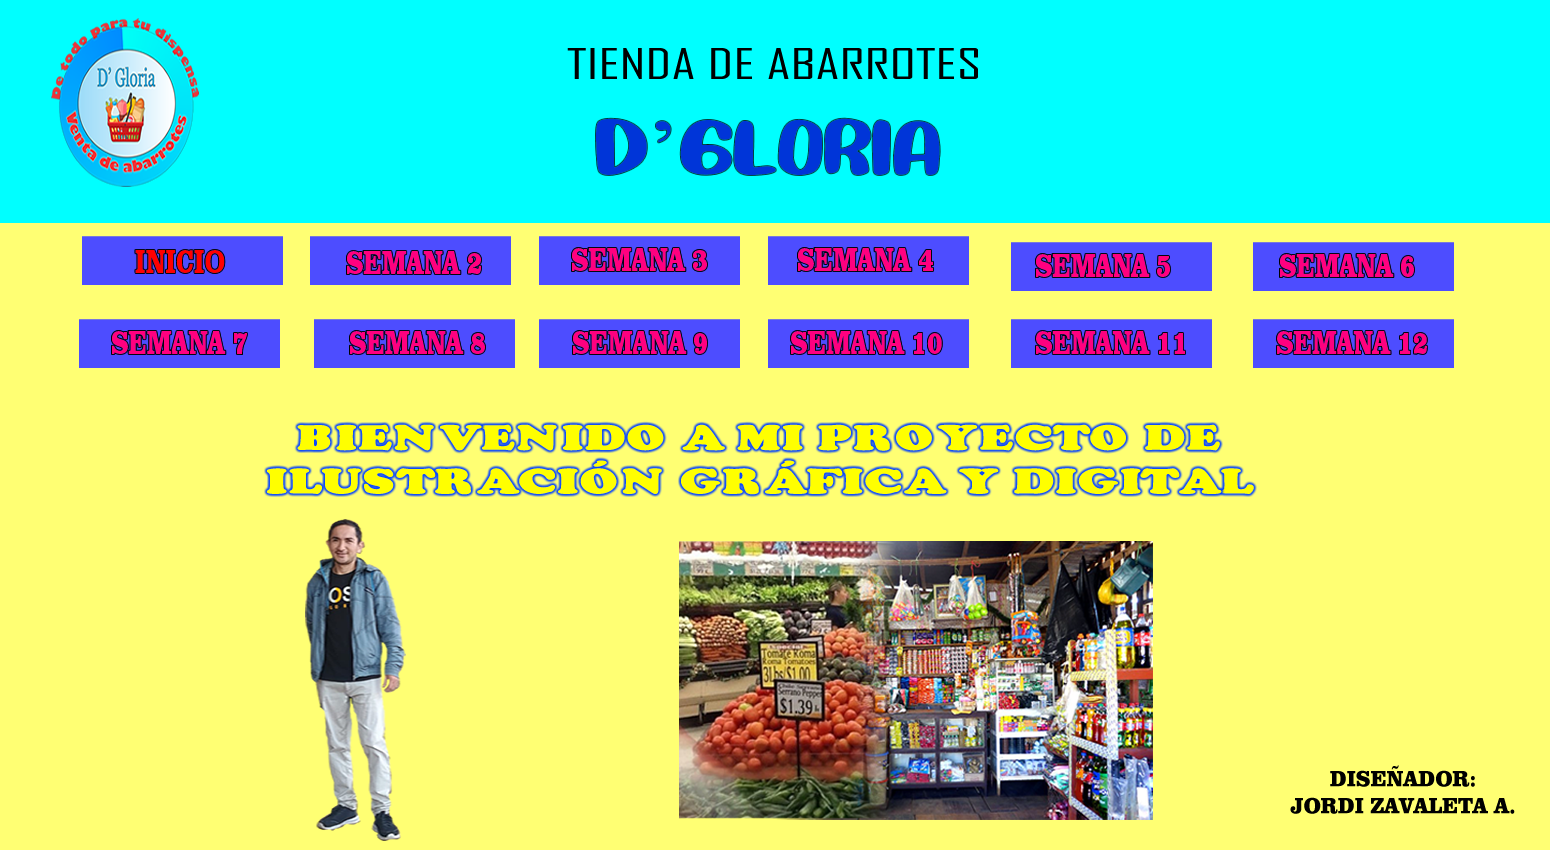
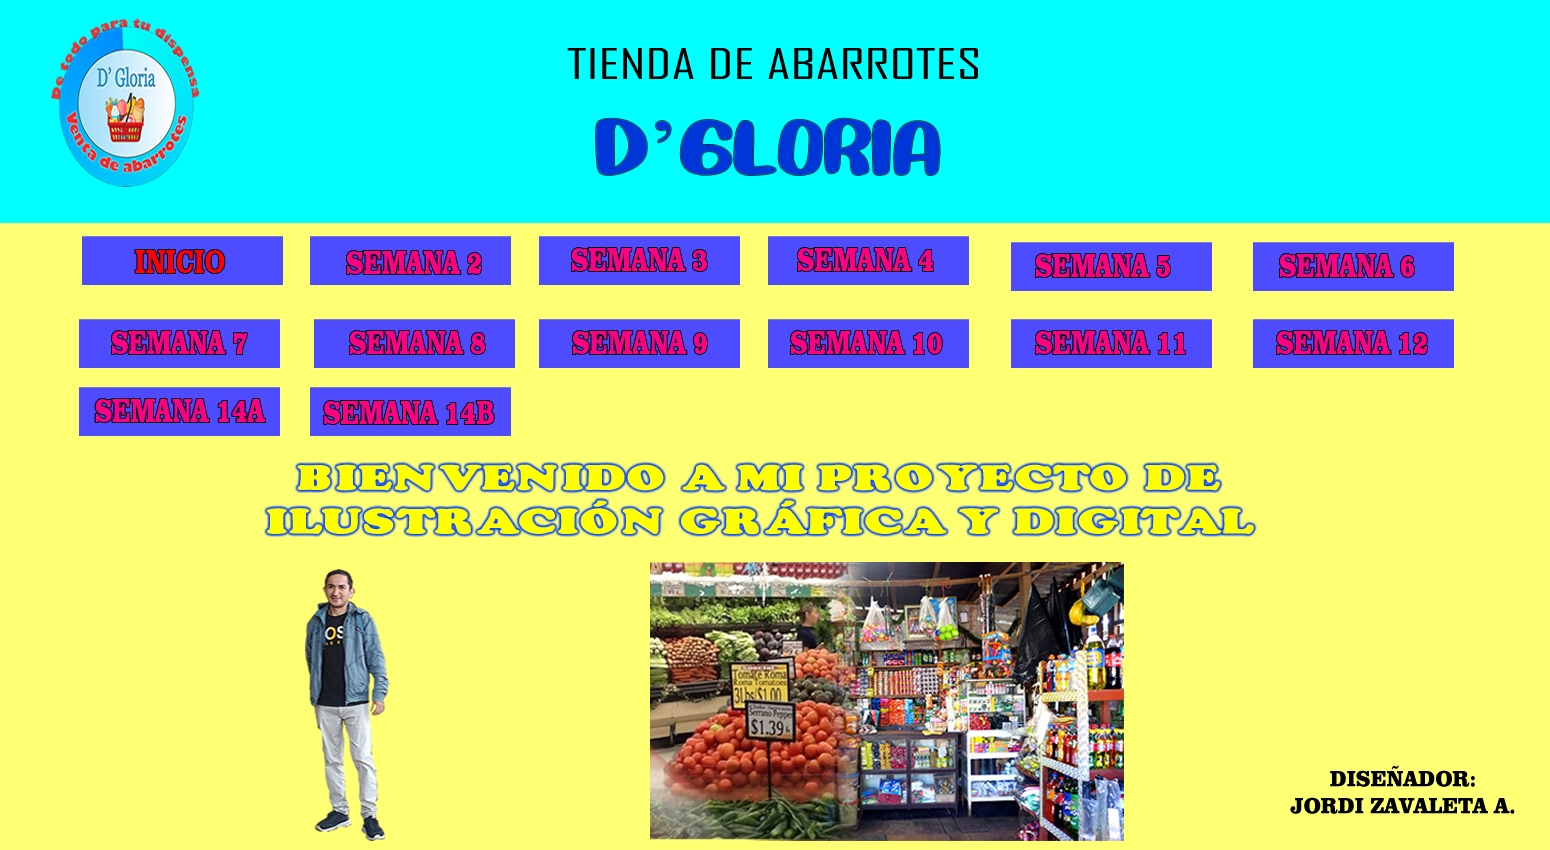
Add files via upload

Changed region(s): [[0.031, 0.4282, 0.8052, 1.0]]

diff --git a/s14a.html b/s14a.html
@@ -3,21 +3,21 @@
 <!-- saved from url=(0014)about:internet -->
 <html xmlns="http://www.w3.org/1999/xhtml">
 <head>
-<title>s09</title>
+<title>s14a</title>
 <meta http-equiv="Content-Type" content="text/html; charset=utf-8" />
-<!--Fireworks CS6 Dreamweaver CS6 target.  Created Tue Jul 22 09:04:20 GMT-0500 2025-->
+<!--Fireworks CS6 Dreamweaver CS6 target.  Created Tue Jul 22 08:44:06 GMT-0500 2025-->
 </head>
 <body bgcolor="#ffffff">
-<img name="s09" src="s09.png" width="1550" height="850" id="s09" usemap="#m_s09" alt="" /><map name="m_s09" id="m_s09">
-<area shape="rect" coords="310,387,511,436" href="s14b.html" alt="" />
-<area shape="rect" coords="79,387,280,436" href="s14a.html" alt="" />
-<area shape="rect" coords="51,18,199,187" href="index.html" alt="" />
-<area shape="rect" coords="1252,319,1453,368" href="s12.html" alt="" />
+<img name="s14a" src="s14a.png" width="1550" height="850" id="s14a" usemap="#m_s14a" alt="" /><map name="m_s14a" id="m_s14a">
+<area shape="rect" coords="39,18,206,187" href="index.html" alt="" />
+<area shape="rect" coords="314,395,515,444" href="s14b.html" alt="" />
+<area shape="rect" coords="82,391,283,440" href="s14a.html" alt="" />
+<area shape="rect" coords="1253,319,1454,368" href="s12.html" alt="" />
 <area shape="rect" coords="1011,319,1212,368" href="s11.html" alt="" />
-<area shape="rect" coords="768,320,969,369" href="s10.html" alt="" />
-<area shape="rect" coords="539,319,740,368" href="s09.html" alt="" />
+<area shape="rect" coords="768,319,969,368" href="s10.html" alt="" />
+<area shape="rect" coords="539,320,740,369" href="s09.html" alt="" />
 <area shape="rect" coords="314,320,515,369" href="s08.html" alt="" />
-<area shape="rect" coords="79,319,280,368" href="s07.html" alt="" />
+<area shape="rect" coords="79,320,280,369" href="s07.html" alt="" />
 <area shape="rect" coords="1247,237,1448,286" href="s06.html" alt="" />
 <area shape="rect" coords="1011,235,1212,284" href="s05.html" alt="" />
 <area shape="rect" coords="768,236,969,285" href="s04.html" alt="" />

diff --git a/s14b.html b/s14b.html
@@ -3,21 +3,21 @@
 <!-- saved from url=(0014)about:internet -->
 <html xmlns="http://www.w3.org/1999/xhtml">
 <head>
-<title>s09</title>
+<title>s14b</title>
 <meta http-equiv="Content-Type" content="text/html; charset=utf-8" />
-<!--Fireworks CS6 Dreamweaver CS6 target.  Created Tue Jul 22 09:04:20 GMT-0500 2025-->
+<!--Fireworks CS6 Dreamweaver CS6 target.  Created Tue Jul 22 08:46:33 GMT-0500 2025-->
 </head>
 <body bgcolor="#ffffff">
-<img name="s09" src="s09.png" width="1550" height="850" id="s09" usemap="#m_s09" alt="" /><map name="m_s09" id="m_s09">
-<area shape="rect" coords="310,387,511,436" href="s14b.html" alt="" />
-<area shape="rect" coords="79,387,280,436" href="s14a.html" alt="" />
-<area shape="rect" coords="51,18,199,187" href="index.html" alt="" />
-<area shape="rect" coords="1252,319,1453,368" href="s12.html" alt="" />
+<img name="s14b" src="s14b.png" width="1550" height="850" id="s14b" usemap="#m_s14b" alt="" /><map name="m_s14b" id="m_s14b">
+<area shape="rect" coords="34,18,217,187" href="index.html" alt="" />
+<area shape="rect" coords="314,394,515,443" href="s14b.html" alt="" />
+<area shape="rect" coords="82,391,283,440" href="s14a.html" alt="" />
+<area shape="rect" coords="1253,319,1454,368" href="s12.html" alt="" />
 <area shape="rect" coords="1011,319,1212,368" href="s11.html" alt="" />
-<area shape="rect" coords="768,320,969,369" href="s10.html" alt="" />
-<area shape="rect" coords="539,319,740,368" href="s09.html" alt="" />
+<area shape="rect" coords="768,319,969,368" href="s10.html" alt="" />
+<area shape="rect" coords="539,320,740,369" href="s09.html" alt="" />
 <area shape="rect" coords="314,320,515,369" href="s08.html" alt="" />
-<area shape="rect" coords="79,319,280,368" href="s07.html" alt="" />
+<area shape="rect" coords="79,320,280,369" href="s07.html" alt="" />
 <area shape="rect" coords="1247,237,1448,286" href="s06.html" alt="" />
 <area shape="rect" coords="1011,235,1212,284" href="s05.html" alt="" />
 <area shape="rect" coords="768,236,969,285" href="s04.html" alt="" />

diff --git a/s11.html b/s11.html
@@ -5,18 +5,19 @@
 <head>
 <title>s11</title>
 <meta http-equiv="Content-Type" content="text/html; charset=utf-8" />
-<!--Fireworks CS6 Dreamweaver CS6 target.  Created Sun Jul 06 00:19:11 GMT-0500 2025-->
+<!--Fireworks CS6 Dreamweaver CS6 target.  Created Tue Jul 22 09:13:45 GMT-0500 2025-->
 </head>
-<center>
 <body bgcolor="#ffffff">
 <img name="s11" src="s11.png" width="1550" height="850" id="s11" usemap="#m_s11" alt="" /><map name="m_s11" id="m_s11">
-<area shape="circle" coords="125,103, 80" href="index.html" alt="" />
+<area shape="rect" coords="310,392,511,441" href="s14b.html" alt="" />
+<area shape="rect" coords="79,392,280,441" href="s14a.html" alt="" />
+<area shape="rect" coords="43,18,199,187" href="index.html" alt="" />
 <area shape="rect" coords="1253,320,1454,369" href="s12.html" alt="" />
-<area shape="rect" coords="1011,320,1212,369" href="s11.html" alt="" />
+<area shape="rect" coords="1011,319,1212,368" href="s11.html" alt="" />
 <area shape="rect" coords="768,319,969,368" href="s10.html" alt="" />
 <area shape="rect" coords="539,320,740,369" href="s09.html" alt="" />
 <area shape="rect" coords="314,320,515,369" href="s08.html" alt="" />
-<area shape="rect" coords="79,320,280,369" href="s07.html" alt="" />
+<area shape="rect" coords="79,319,280,368" href="s07.html" alt="" />
 <area shape="rect" coords="1247,237,1448,286" href="s06.html" alt="" />
 <area shape="rect" coords="1011,235,1212,284" href="s05.html" alt="" />
 <area shape="rect" coords="768,236,969,285" href="s04.html" alt="" />
@@ -25,5 +26,4 @@
 <area shape="rect" coords="82,236,283,285" href="index.html" alt="" />
 </map>
 </body>
-</center>
 </html>

diff --git a/s04.html b/s04.html
@@ -5,18 +5,19 @@
 <head>
 <title>s04</title>
 <meta http-equiv="Content-Type" content="text/html; charset=utf-8" />
-<!--Fireworks CS6 Dreamweaver CS6 target.  Created Sat Jul 05 20:37:24 GMT-0500 2025-->
+<!--Fireworks CS6 Dreamweaver CS6 target.  Created Tue Jul 22 08:54:43 GMT-0500 2025-->
 </head>
-<center>
 <body bgcolor="#ffffff">
 <img name="s04" src="s04.png" width="1550" height="850" id="s04" usemap="#m_s04" alt="" /><map name="m_s04" id="m_s04">
-<area shape="circle" coords="128,103, 80" href="index.html" alt="" />
+<area shape="rect" coords="310,379,511,428" href="s14b.html" alt="" />
+<area shape="rect" coords="79,380,280,429" href="s14a.html" alt="" />
+<area shape="rect" coords="49,18,199,187" href="index.html" alt="" />
 <area shape="rect" coords="1252,319,1453,368" href="s12.html" alt="" />
 <area shape="rect" coords="1011,320,1212,369" href="s11.html" alt="" />
 <area shape="rect" coords="768,320,969,369" href="s10.html" alt="" />
 <area shape="rect" coords="539,320,740,369" href="s09.html" alt="" />
 <area shape="rect" coords="314,319,515,368" href="s08.html" alt="" />
-<area shape="rect" coords="79,319,280,368" href="s07.html" alt="" />
+<area shape="rect" coords="80,319,281,368" href="s07.html" alt="" />
 <area shape="rect" coords="1253,243,1454,292" href="s06.html" alt="" />
 <area shape="rect" coords="1011,243,1212,292" href="s05.html" alt="" />
 <area shape="rect" coords="768,236,969,285" href="s04.html" alt="" />
@@ -25,5 +26,4 @@
 <area shape="rect" coords="82,236,283,285" href="index.html" alt="" />
 </map>
 </body>
-</center>
 </html>

diff --git a/s05.html b/s05.html
@@ -5,18 +5,19 @@
 <head>
 <title>s05</title>
 <meta http-equiv="Content-Type" content="text/html; charset=utf-8" />
-<!--Fireworks CS6 Dreamweaver CS6 target.  Created Sat Jul 05 20:38:00 GMT-0500 2025-->
+<!--Fireworks CS6 Dreamweaver CS6 target.  Created Tue Jul 22 08:56:49 GMT-0500 2025-->
 </head>
-<center>
 <body bgcolor="#ffffff">
 <img name="s05" src="s05.png" width="1550" height="850" id="s05" usemap="#m_s05" alt="" /><map name="m_s05" id="m_s05">
-<area shape="circle" coords="125,103, 80" href="index.html" alt="" />
+<area shape="rect" coords="314,383,515,432" href="s14b.html" alt="" />
+<area shape="rect" coords="79,382,280,431" href="s14a.html" alt="" />
+<area shape="rect" coords="43,18,199,187" href="index.html" alt="" />
 <area shape="rect" coords="1252,319,1453,368" href="s12.html" alt="" />
 <area shape="rect" coords="1011,319,1212,368" href="s11.html" alt="" />
 <area shape="rect" coords="768,320,969,369" href="s10.html" alt="" />
 <area shape="rect" coords="539,320,740,369" href="s09.html" alt="" />
 <area shape="rect" coords="314,319,515,368" href="s08.html" alt="" />
-<area shape="rect" coords="79,319,280,368" href="s07.html" alt="" />
+<area shape="rect" coords="79,320,280,369" href="s07.html" alt="" />
 <area shape="rect" coords="1247,236,1448,285" href="s06.html" alt="" />
 <area shape="rect" coords="1011,235,1212,284" href="s05.html" alt="" />
 <area shape="rect" coords="768,236,969,285" href="s04.html" alt="" />
@@ -25,5 +26,4 @@
 <area shape="rect" coords="82,236,283,285" href="index.html" alt="" />
 </map>
 </body>
-</center>
 </html>

diff --git a/s06.html b/s06.html
@@ -5,18 +5,19 @@
 <head>
 <title>s06</title>
 <meta http-equiv="Content-Type" content="text/html; charset=utf-8" />
-<!--Fireworks CS6 Dreamweaver CS6 target.  Created Sat Jul 05 20:38:33 GMT-0500 2025-->
+<!--Fireworks CS6 Dreamweaver CS6 target.  Created Tue Jul 22 08:59:03 GMT-0500 2025-->
 </head>
-<center>
 <body bgcolor="#ffffff">
 <img name="s06" src="s06.png" width="1550" height="850" id="s06" usemap="#m_s06" alt="" /><map name="m_s06" id="m_s06">
-<area shape="circle" coords="125,103, 80" href="index.html" alt="" />
+<area shape="rect" coords="310,373,511,422" href="s14b.html" alt="" />
+<area shape="rect" coords="79,373,280,422" href="s14a.html" alt="" />
+<area shape="rect" coords="51,18,199,187" href="index.html" alt="" />
 <area shape="rect" coords="1252,319,1453,368" href="s12.html" alt="" />
 <area shape="rect" coords="1011,319,1212,368" href="s11.html" alt="" />
 <area shape="rect" coords="768,320,969,369" href="s10.html" alt="" />
 <area shape="rect" coords="539,320,740,369" href="s09.html" alt="" />
 <area shape="rect" coords="314,319,515,368" href="s08.html" alt="" />
-<area shape="rect" coords="79,320,280,369" href="s07.html" alt="" />
+<area shape="rect" coords="79,319,280,368" href="s07.html" alt="" />
 <area shape="rect" coords="1247,237,1448,286" href="s06.html" alt="" />
 <area shape="rect" coords="1012,235,1213,284" href="s05.html" alt="" />
 <area shape="rect" coords="768,236,969,285" href="s04.html" alt="" />
@@ -25,5 +26,4 @@
 <area shape="rect" coords="82,236,283,285" href="index.html" alt="" />
 </map>
 </body>
-</center>
 </html>

diff --git a/s08.html b/s08.html
@@ -5,18 +5,19 @@
 <head>
 <title>s08</title>
 <meta http-equiv="Content-Type" content="text/html; charset=utf-8" />
-<!--Fireworks CS6 Dreamweaver CS6 target.  Created Sat Jul 05 20:39:45 GMT-0500 2025-->
+<!--Fireworks CS6 Dreamweaver CS6 target.  Created Tue Jul 22 09:02:38 GMT-0500 2025-->
 </head>
-<center>
 <body bgcolor="#ffffff">
 <img name="s08" src="s08.png" width="1550" height="850" id="s08" usemap="#m_s08" alt="" /><map name="m_s08" id="m_s08">
-<area shape="circle" coords="125,103, 80" href="index.html" alt="" />
+<area shape="rect" coords="314,385,515,434" href="s14b.html" alt="" />
+<area shape="rect" coords="79,385,280,434" href="s14a.html" alt="" />
+<area shape="rect" coords="49,18,199,187" href="index.html" alt="" />
 <area shape="rect" coords="1252,319,1453,368" href="s12.html" alt="" />
 <area shape="rect" coords="1011,319,1212,368" href="s11.html" alt="" />
 <area shape="rect" coords="768,320,969,369" href="s10.html" alt="" />
 <area shape="rect" coords="539,320,740,369" href="s09.html" alt="" />
 <area shape="rect" coords="314,320,515,369" href="s08.html" alt="" />
-<area shape="rect" coords="79,320,280,369" href="s07.html" alt="" />
+<area shape="rect" coords="79,319,280,368" href="s07.html" alt="" />
 <area shape="rect" coords="1247,237,1448,286" href="s06.html" alt="" />
 <area shape="rect" coords="1011,235,1212,284" href="s05.html" alt="" />
 <area shape="rect" coords="768,236,969,285" href="s04.html" alt="" />
@@ -25,5 +26,4 @@
 <area shape="rect" coords="82,236,283,285" href="index.html" alt="" />
 </map>
 </body>
-</center>
 </html>

diff --git a/s12.html b/s12.html
@@ -5,18 +5,19 @@
 <head>
 <title>s12</title>
 <meta http-equiv="Content-Type" content="text/html; charset=utf-8" />
-<!--Fireworks CS6 Dreamweaver CS6 target.  Created Sat Jul 05 20:42:13 GMT-0500 2025-->
+<!--Fireworks CS6 Dreamweaver CS6 target.  Created Tue Jul 22 09:16:01 GMT-0500 2025-->
 </head>
-<center>
 <body bgcolor="#ffffff">
 <img name="s12" src="s12.png" width="1550" height="850" id="s12" usemap="#m_s12" alt="" /><map name="m_s12" id="m_s12">
-<area shape="circle" coords="125,103, 80" href="index.html" alt="" />
+<area shape="rect" coords="310,397,511,446" href="s14b.html" alt="" />
+<area shape="rect" coords="79,397,280,446" href="s14a.html" alt="" />
+<area shape="rect" coords="40,18,199,187" href="index.html" alt="" />
 <area shape="rect" coords="1253,320,1454,369" href="s12.html" alt="" />
 <area shape="rect" coords="1011,320,1212,369" href="s11.html" alt="" />
 <area shape="rect" coords="768,319,969,368" href="s10.html" alt="" />
 <area shape="rect" coords="539,320,740,369" href="s09.html" alt="" />
 <area shape="rect" coords="314,320,515,369" href="s08.html" alt="" />
-<area shape="rect" coords="79,320,280,369" href="s07.html" alt="" />
+<area shape="rect" coords="79,319,280,368" href="s07.html" alt="" />
 <area shape="rect" coords="1247,237,1448,286" href="s06.html" alt="" />
 <area shape="rect" coords="1011,235,1212,284" href="s05.html" alt="" />
 <area shape="rect" coords="768,236,969,285" href="s04.html" alt="" />
@@ -25,5 +26,4 @@
 <area shape="rect" coords="82,236,283,285" href="index.html" alt="" />
 </map>
 </body>
-</center>
 </html>

diff --git a/s10.html b/s10.html
@@ -5,18 +5,19 @@
 <head>
 <title>s10</title>
 <meta http-equiv="Content-Type" content="text/html; charset=utf-8" />
-<!--Fireworks CS6 Dreamweaver CS6 target.  Created Sat Jul 05 20:40:57 GMT-0500 2025-->
+<!--Fireworks CS6 Dreamweaver CS6 target.  Created Tue Jul 22 09:05:47 GMT-0500 2025-->
 </head>
-<center>
 <body bgcolor="#ffffff">
 <img name="s10" src="s10.png" width="1550" height="850" id="s10" usemap="#m_s10" alt="" /><map name="m_s10" id="m_s10">
-<area shape="circle" coords="125,103, 80" href="index.html" alt="" />
+<area shape="rect" coords="314,406,515,455" href="s07.html" alt="" />
+<area shape="rect" coords="73,400,274,449" href="s07.html" alt="" />
+<area shape="rect" coords="42,18,199,187" href="index.html" alt="" />
 <area shape="rect" coords="1252,319,1453,368" href="s12.html" alt="" />
 <area shape="rect" coords="1011,319,1212,368" href="s11.html" alt="" />
 <area shape="rect" coords="768,320,969,369" href="s10.html" alt="" />
 <area shape="rect" coords="539,320,740,369" href="s09.html" alt="" />
 <area shape="rect" coords="314,320,515,369" href="s08.html" alt="" />
-<area shape="rect" coords="79,320,280,369" href="s07.html" alt="" />
+<area shape="rect" coords="79,319,280,368" href="s07.html" alt="" />
 <area shape="rect" coords="1247,237,1448,286" href="s06.html" alt="" />
 <area shape="rect" coords="1011,235,1212,284" href="s05.html" alt="" />
 <area shape="rect" coords="768,236,969,285" href="s04.html" alt="" />
@@ -25,5 +26,4 @@
 <area shape="rect" coords="82,236,283,285" href="index.html" alt="" />
 </map>
 </body>
-</center>
 </html>

diff --git a/s07.html b/s07.html
@@ -5,17 +5,18 @@
 <head>
 <title>s07</title>
 <meta http-equiv="Content-Type" content="text/html; charset=utf-8" />
-<!--Fireworks CS6 Dreamweaver CS6 target.  Created Sat Jul 05 20:39:00 GMT-0500 2025-->
+<!--Fireworks CS6 Dreamweaver CS6 target.  Created Tue Jul 22 09:00:45 GMT-0500 2025-->
 </head>
-<center>
 <body bgcolor="#ffffff">
 <img name="s07" src="s07.png" width="1550" height="850" id="s07" usemap="#m_s07" alt="" /><map name="m_s07" id="m_s07">
-<area shape="circle" coords="125,103, 80" href="index.html" alt="" />
+<area shape="rect" coords="314,383,515,432" href="s14b.html" alt="" />
+<area shape="rect" coords="79,384,280,433" href="s14a.html" alt="" />
+<area shape="rect" coords="51,18,199,187" href="index.html" alt="" />
 <area shape="rect" coords="1252,319,1453,368" href="s12.html" alt="" />
 <area shape="rect" coords="1011,319,1212,368" href="s11.html" alt="" />
 <area shape="rect" coords="768,320,969,369" href="s10.html" alt="" />
 <area shape="rect" coords="539,320,740,369" href="s09.html" alt="" />
-<area shape="rect" coords="314,319,515,368" href="s08.html" alt="" />
+<area shape="rect" coords="314,320,515,369" href="s08.html" alt="" />
 <area shape="rect" coords="79,319,280,368" href="s07.html" alt="" />
 <area shape="rect" coords="1247,237,1448,286" href="s06.html" alt="" />
 <area shape="rect" coords="1011,235,1212,284" href="s05.html" alt="" />
@@ -25,5 +26,4 @@
 <area shape="rect" coords="82,236,283,285" href="index.html" alt="" />
 </map>
 </body>
-</center>
 </html>

diff --git a/s02.html b/s02.html
@@ -5,13 +5,14 @@
 <head>
 <title>s02</title>
 <meta http-equiv="Content-Type" content="text/html; charset=utf-8" />
-<!--Fireworks CS6 Dreamweaver CS6 target.  Created Sat Jul 05 20:32:35 GMT-0500 2025-->
+<!--Fireworks CS6 Dreamweaver CS6 target.  Created Tue Jul 22 08:50:34 GMT-0500 2025-->
 </head>
-<center>
 <body bgcolor="#ffffff">
 <img name="s02" src="s02.png" width="1550" height="850" id="s02" usemap="#m_s02" alt="" /><map name="m_s02" id="m_s02">
-<area shape="circle" coords="128,103, 81" href="index.html" alt="" />
-<area shape="rect" coords="1252,319,1453,368" href="s12.html" alt="" />
+<area shape="rect" coords="317,390,518,439" href="s14b.html" alt="" />
+<area shape="rect" coords="79,389,280,438" href="s14a.html" alt="" />
+<area shape="rect" coords="51,18,199,187" href="index.html" alt="" />
+<area shape="rect" coords="1253,320,1454,369" href="s12.html" alt="" />
 <area shape="rect" coords="1011,320,1212,369" href="s11.html" alt="" />
 <area shape="rect" coords="768,320,969,369" href="s10.html" alt="" />
 <area shape="rect" coords="539,320,740,369" href="s09.html" alt="" />
@@ -25,5 +26,4 @@
 <area shape="rect" coords="82,236,283,285" href="index.html" alt="" />
 </map>
 </body>
-</center>
 </html>

diff --git a/index.html b/index.html
@@ -5,13 +5,13 @@
 <head>
 <title>index</title>
 <meta http-equiv="Content-Type" content="text/html; charset=utf-8" />
-<!--Fireworks CS6 Dreamweaver CS6 target.  Created Sat Jul 05 20:29:57 GMT-0500 2025-->
+<!--Fireworks CS6 Dreamweaver CS6 target.  Created Tue Jul 22 08:42:24 GMT-0500 2025-->
 </head>
-<center> 
 <body bgcolor="#ffffff">
 <img name="index" src="index.png" width="1550" height="850" id="index" usemap="#m_index" alt="" /><map name="m_index" id="m_index">
-<area shape="circle" coords="125,102, 80" href="index.html" alt="" />
-<area shape="rect" coords="1252,319,1453,368" href="s12.html" alt="" />
+<area shape="rect" coords="310,387,511,436" href="s14b.html" alt="" />
+<area shape="rect" coords="79,386,280,435" href="s14a.html" alt="" />
+<area shape="rect" coords="1253,319,1454,368" href="s12.html" alt="" />
 <area shape="rect" coords="1011,320,1212,369" href="s11.html" alt="" />
 <area shape="rect" coords="768,320,969,369" href="s10.html" alt="" />
 <area shape="rect" coords="539,320,740,369" href="s09.html" alt="" />
@@ -25,5 +25,4 @@
 <area shape="rect" coords="82,236,283,285" href="index.html" alt="" />
 </map>
 </body>
-</center>
 </html>
